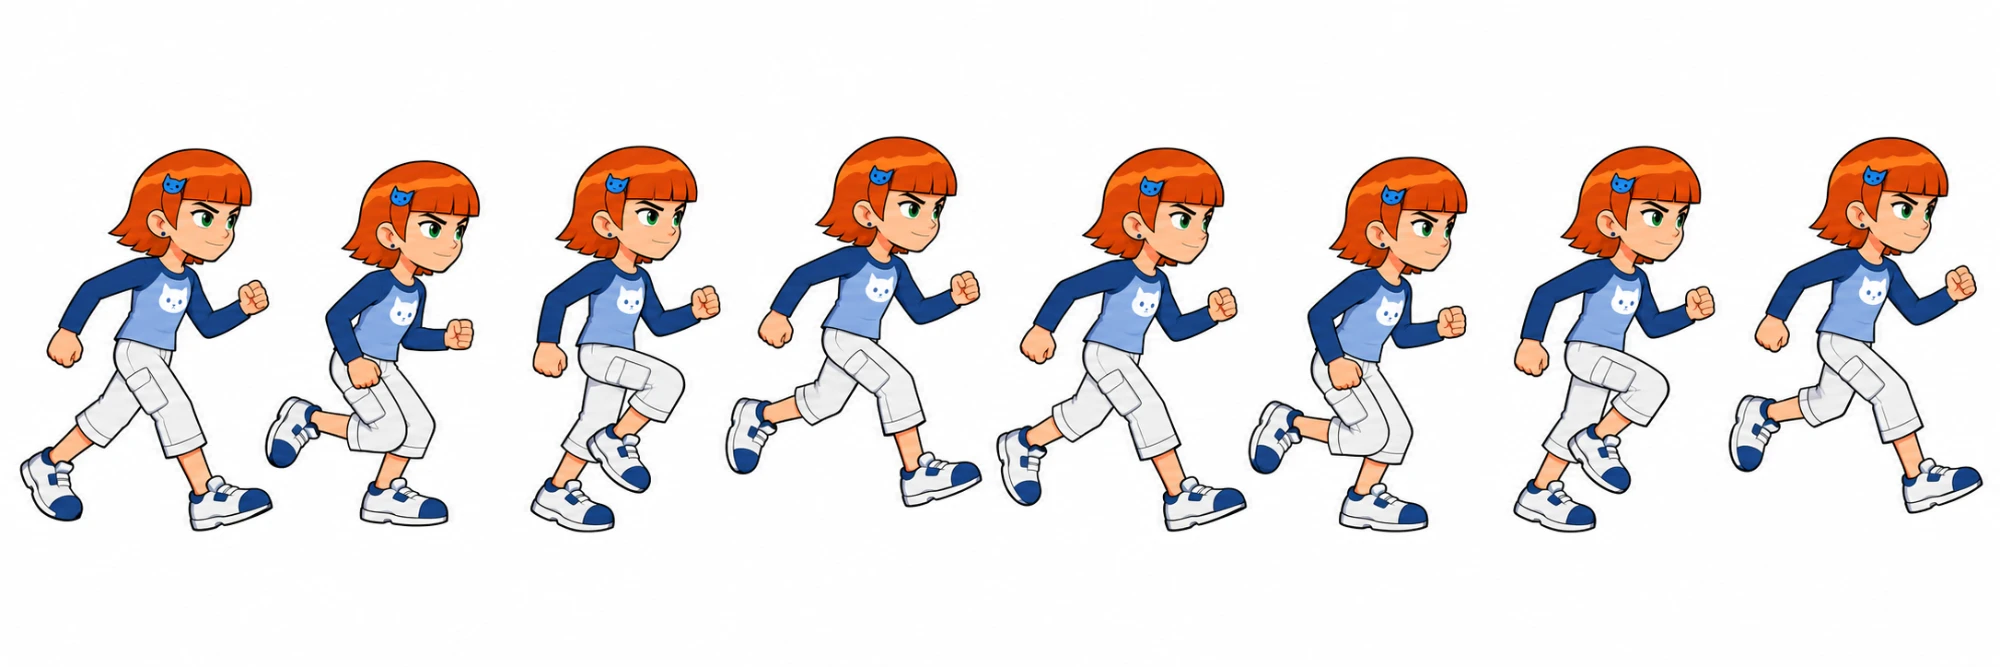
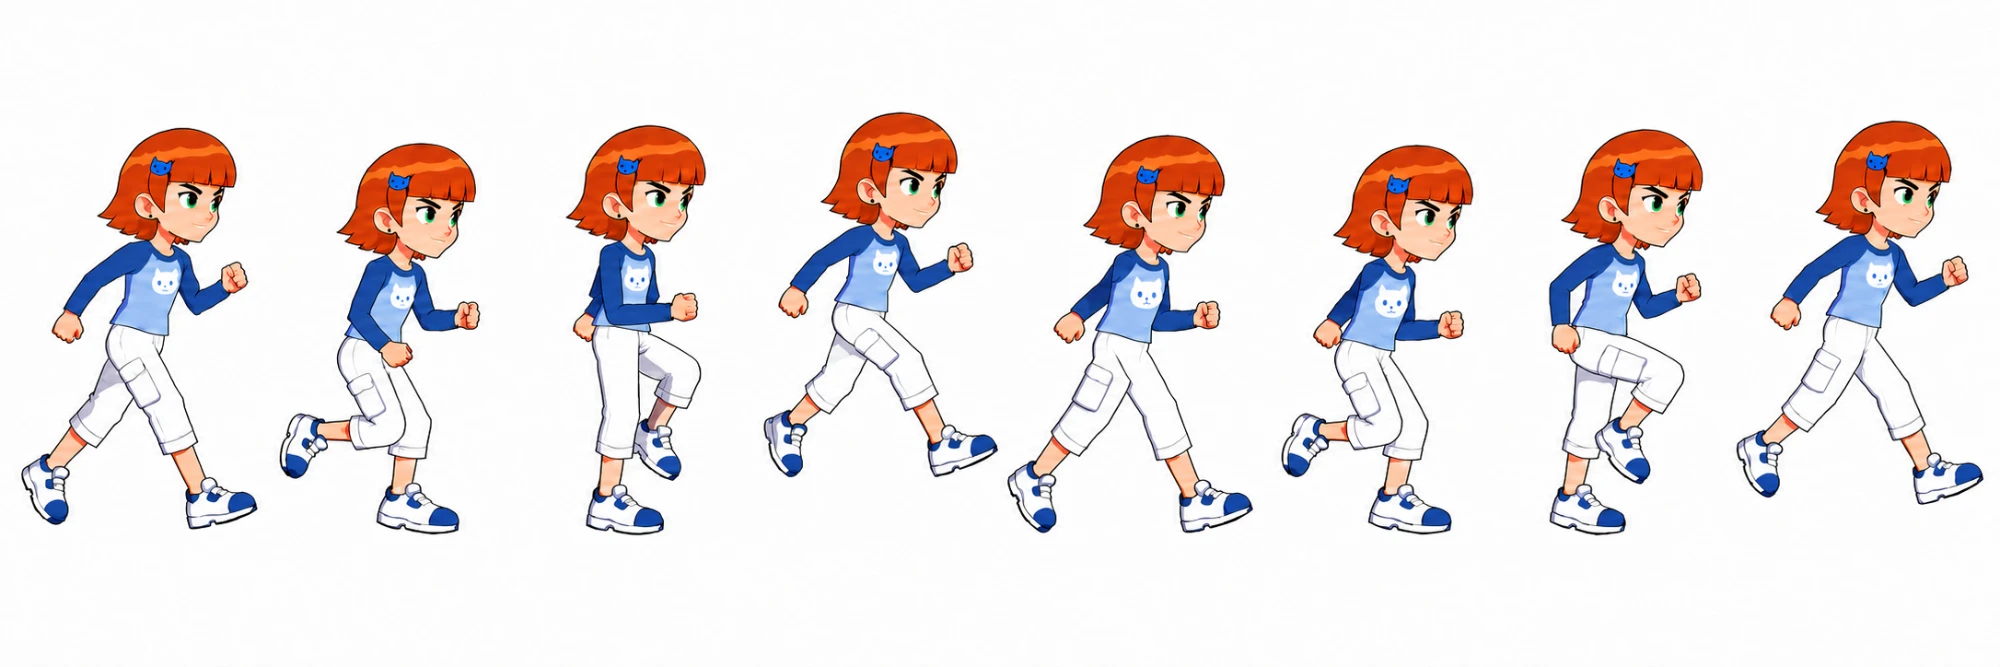
Gwen runs from the owner's second run sheet: the legs swap, her body doesn't twist
The airborne drawings are evened out (both 2.6 px up); her shorter stride
plays at 20 drawings a second (3.1 px of ground each), and her ring speeds
follow it.

Claude-Session: https://claude.ai/code/session_013Hp8tSqP8vgSn4FCMe6iiY

Changed region(s): [[0.0, 0.1499, 0.992, 0.8096]]

diff --git a/src/scenes/preload/cartoon/cutout/gwenFrames.ts b/src/scenes/preload/cartoon/cutout/gwenFrames.ts
@@ -7,18 +7,18 @@ export const GWEN_FRAMES: CutoutMeta = {
   texel: 5,
   scale: 19.15,
   headScale: 1,
-  width: 747,
+  width: 688,
   height: 168,
   joints: {},
   frames: {
-    "body:run0": {"x": 309, "y": 2, "w": 90, "h": 135, "px": 47.95, "py": 133.69},
-    "body:run1": {"x": 668, "y": 2, "w": 77, "h": 130, "px": 41.97, "py": 128.14},
-    "body:run2": {"x": 74, "y": 2, "w": 68, "h": 137, "px": 29.78, "py": 135.43},
-    "body:run3": {"x": 574, "y": 2, "w": 92, "h": 131, "px": 48.91, "py": 138.03},
-    "body:run4": {"x": 144, "y": 2, "w": 89, "h": 136, "px": 45.62, "py": 134.39},
-    "body:run5": {"x": 494, "y": 2, "w": 78, "h": 133, "px": 42.36, "py": 131.26},
-    "body:run6": {"x": 235, "y": 2, "w": 72, "h": 136, "px": 33.22, "py": 135.08},
-    "body:run7": {"x": 401, "y": 2, "w": 91, "h": 133, "px": 44.96, "py": 138.01},
+    "body:run0": {"x": 186, "y": 2, "w": 85, "h": 143, "px": 44.87, "py": 141.0},
+    "body:run1": {"x": 363, "y": 2, "w": 73, "h": 139, "px": 38.83, "py": 137.85},
+    "body:run2": {"x": 74, "y": 2, "w": 51, "h": 146, "px": 23.3, "py": 144.15},
+    "body:run3": {"x": 602, "y": 2, "w": 84, "h": 130, "px": 37.93, "py": 141.4},
+    "body:run4": {"x": 273, "y": 2, "w": 88, "h": 141, "px": 44.22, "py": 139.95},
+    "body:run5": {"x": 438, "y": 2, "w": 71, "h": 139, "px": 33.85, "py": 137.5},
+    "body:run6": {"x": 127, "y": 2, "w": 57, "h": 144, "px": 21.48, "py": 142.75},
+    "body:run7": {"x": 511, "y": 2, "w": 89, "h": 137, "px": 44.71, "py": 148.4},
     "body:stand": {"x": 2, "y": 2, "w": 70, "h": 164, "px": 32.84, "py": 162.92},
   },
   bends: {},

diff --git a/src/scenes/preload/cartoon/characters/gwen.ts b/src/scenes/preload/cartoon/characters/gwen.ts
@@ -211,8 +211,8 @@ export function gwenRig(): RigDef {
  */
 export const GWEN_FRAME_CLIPS: Readonly<Record<string, FrameClip>> = {
   idle: { frames: ['stand'], ms: 2600, loop: true, motion: breathe() },
-  // The sheet's second four drawings repeat the first four's stride: with both legs alike it reads as the other leg.
-  run: { frames: ['run0', 'run1', 'run2', 'run3', 'run4', 'run5', 'run6', 'run7'], fps: 16, loop: true },
+  // A short, quick stride (her second run sheet): 20 drawings a second keep her feet planted at Ben's pace.
+  run: { frames: ['run0', 'run1', 'run2', 'run3', 'run4', 'run5', 'run6', 'run7'], fps: 20, loop: true },
   walk: { frames: ['run0', 'run1', 'run2', 'run3', 'run4', 'run5', 'run6', 'run7'], fps: 10, loop: true },
   // The run's lowest drawing for the push-off, then its flight.
   jump: { frames: ['run1', 'run3', 'run3', 'run3', 'run3', 'run3'], ms: 420, loop: false },

diff --git a/src/config/chapter7.ts b/src/config/chapter7.ts
@@ -63,9 +63,9 @@ export const CH7_BEATS = {
     /** Max's walk and hurry (his walk at twice its gait: his sheet has no run), Gwen's run (px/s): near their drawings' own gaits (config/cartoon/gait.ts), so their feet stay planted. */
     maxWalk: 36,
     maxHurry: 72,
-    gwenRun: 63,
+    gwenRun: 62,
     /** Gwen at Ben's side (px/s): as fast as her run cycle can play (twice its gait); she pops back in when left far behind. */
-    gwenFollow: 126,
+    gwenFollow: 124,
     /** Where Max and Gwen stand at the capsule, and where they stop at the hatch, the locker and the hub (px). */
     maxStart: 34,
     gwenStart: -26,

diff --git a/tests/chapter7.test.ts b/tests/chapter7.test.ts
@@ -92,7 +92,7 @@ describe('chapter 7 layout', () => {
   });
 
   it('the family and Kevin move at speeds their drawn cycles keep up with', () => {
-    // Twice the gait is the most a cycle plays (config/cartoon/gait.ts): Max walks 36, Gwen runs 63, Kevin runs 73.
+    // Twice the gait is the most a cycle plays (config/cartoon/gait.ts): Max walks 36, Gwen runs 62, Kevin runs 73.
     expect(CH7_BEATS.ring.maxHurry).toBeLessThanOrEqual(72);
     expect(CH7_LATE.max.speed).toBeLessThanOrEqual(72);
     expect(CH7_REACTOR.glimpse.speed).toBeLessThanOrEqual(146);

diff --git a/src/config/cartoon/gait.ts b/src/config/cartoon/gait.ts
@@ -6,8 +6,8 @@
  * feet don't slide. Keyed by the family sheet's prefix, then the pose.
  */
 export const GAIT: Readonly<Record<string, Readonly<Record<string, number>>>> = {
-  // About 3.95 px a drawing: 16 and 10 drawings a second.
-  gwen: { run: 63, walk: 39.5 },
+  // About 3.1 px a drawing (her second run sheet's shorter stride): 20 and 10 drawings a second.
+  gwen: { run: 62, walk: 31 },
   // About 3.6 px a drawing: 10 and 15 a second.
   max: { walk: 36, run: 54 },
   // About 4.55 px a drawing: 16 and 10 a second.

diff --git a/scripts/cutout/gwen_frames.py b/scripts/cutout/gwen_frames.py
@@ -1,6 +1,6 @@
 # Gwen frame by frame: every pose is one of her generated drawings (see frames.py).
-# Sheets: her model sheet (the three-quarter view, for standing) and her run cycle (8 frames; the fifth to eighth repeat the first four, so
-# the legs never swap: with both legs alike it plays as a four-drawing stride).
+# Sheets: her model sheet (the three-quarter view, for standing) and her run cycle (8 frames, the owner's second run sheet: the legs swap
+# between frames 1 and 5 and 3 and 7, her body doesn't twist; 2 and 6, 4 and 8 share a leg, which reads fine with both legs alike).
 
 ID = 'gwen'
 TEXEL = 5
@@ -16,18 +16,18 @@ REF = ('model', 1)
 HAIR = (209, 71, 11)
 SHIRT = (139, 170, 225)
 SKIN = (249, 181, 132)
-# The run sheet draws her stockier than the model sheet (a head 23% bigger for her body) and turned
-# more to the side, so hair width misleads: scaled between her head's height (x1.30) and her height
-# (x1.37 once a runner's crouch is allowed for), so neither jumps more than a few percent when she stops.
-SHEET_SCALE = {'model': 1.0, 'run': 1.33}
+# The run sheet draws her turned more to the side, so hair width misleads: scaled between her head's height
+# (x1.38) and her height (x1.31 once a runner's crouch is allowed for), so neither jumps more than a few percent when she stops.
+SHEET_SCALE = {'model': 1.0, 'run': 1.34}
 
 FRAMES = {
     'stand': ('model', 1),
     'run0': ('run', 0), 'run1': ('run', 1), 'run2': ('run', 2), 'run3': ('run', 3),
     'run4': ('run', 4), 'run5': ('run', 5), 'run6': ('run', 6), 'run7': ('run', 7),
 }
-# Airborne run frames, by how far their lowest foot sits over the sheet's ground line (game px).
-LIFT = {'run3': 1.70, 'run7': 1.28}
+# Airborne run frames (game px over the floor). The sheet hops her 4.1 in the fourth drawing and 2.2 in the eighth:
+# evened out so both strides float the same.
+LIFT = {'run3': 2.6, 'run7': 2.6}
 
 # Her model sheet's colours: frames from other sheets are pulled toward them.
 PALETTE = [(237, 237, 238), (27, 66, 128), (249, 181, 132), (17, 12, 17), (209, 71, 11), (139, 170, 225), (183, 183, 191), (245, 119, 43), (106, 41, 15), (77, 126, 190)]

diff --git a/docs/DECISIONS.md b/docs/DECISIONS.md
@@ -201,7 +201,7 @@ Measurements and before/after numbers are in `PERFORMANCE.md`.
 - **Characters drawn frame by frame, replacing the cut-out puppets** (the owner: the cut-outs still "feel like pieces", Max's arm "looks like it has polio"). A cut-out bends one standing drawing into poses nobody drew, so limbs thin and twist and hands turn the wrong way; no amount of polish fixes that. Frame by frame, every pose is one of the generated drawings, played as it is, about 12-16 drawings a second like the show itself. `scripts/cutout/frames.py` finds each figure on a sheet, scales every sheet to the model sheet by the width of the hair, anchors each drawing at the middle of the shirt and the floor under the lowest foot (lifting the airborne run frames), pulls colours toward the model sheet's, and packs `public/assets/cast/<id>-frames.webp` (WebP keeps the alpha at a third of PNG's size; 5 texels per game px: the art is never painted sharper than 4). Swimming drawings hang from the middle of the shirt instead of the feet (`CENTRED`), and the swim clip places that point. `cutout/frameRig.ts` turns that into a one-bone rig whose part has a look per drawing, so the HD mirror, story poses, portraits and the hit flicker need no changes; motion over a drawing (a bob, a nudge, a roll's spin) is clip code. Ben is first: idle, run (his 8-frame run sheet; its fourth drawing repeats the eighth's stride, so the third is held in its place), the 6-frame breaststroke, jump, fall, land, punch, hurt, the slam and eight story poses (talk, point, shrug, surprise, cheer, think, wave, staring at his hands). Of two story-pose sheets the owner made, the one with the Omnitrix in every pose is used; of two identical swim sheets, the larger. Gwen, Max and Kevin stay cut-outs until their animation sheets arrive.
 - **Gwen, Max and Kevin frame by frame** (`scripts/cutout/<id>_frames.py`, clips `<ID>_FRAME_CLIPS` in `characters/<id>.ts`): the owner's first sheets for them are cycles only: Gwen's run, Max's walk, Kevin's run (`docs/art-refs/<id>-run-cycle.webp`, `max-walk-cycle.webp`). Of two Gwen run sheets, the one with the cat face in every frame is used (the other loses it in frames 5 and 6); of two Max walk sheets, the one whose arms swing once a cycle (the other's swing back and forth in frames 6-8). All three repeat their first four drawings' legs in frames 5-8 (the legs never swap), and Gwen's arms never swap either; since both legs look alike, the four-drawing stride repeated still reads as alternating legs, so the cycles play as drawn, all eight drawings. Until their action and story-pose sheets arrive, a pose with no drawing of its own is the model sheet's standing drawing, breathing (a 0.5% swell from the feet, so they never leave the floor; Ben's older clips bob instead); Max at the console is his model sheet's side view; Kevin's absorb, wind-up and throw are his model sheet's absorbing pose (the purple is in the drawing); the jump and fall borrow the run's flight drawings, the landing its lowest drawing. Clips a rig doesn't list fall back to the standing drawing.
 - **A size jump between sheets:** ChatGPT draws the cycle sheets stockier than the model sheets (heads 13-23% bigger for the body, and turned more to the side), so the hair-width scale `frames.py` uses for Ben shrank the runners by a fifth. Each cycle sheet is scaled by hand (`SHEET_SCALE`) between its head's height and its body's height (`frames.py` prints both), so going from standing to moving changes neither by more than a few percent beyond a runner's natural crouch (Ben's own run stands 15% lower than his idle). The real fix is drawings in the same proportions: the action sheets are to be made from the cycle sheet. Gwen is scaled so she stands as tall as Ben's idle drawing (her model sheet would make her 5% taller); Max and Kevin keep their cut-outs' heights.
-- **Feet that stay planted:** the drawn strides are short for the speeds the game moves people at (about 4 game px of ground a drawing for Gwen, 3.6 for Max, 4.6 for Kevin). In an HD chapter a `FamilyActor` plays its run or walk at the rate its real speed needs (`config/cartoon/gait.ts`: Gwen runs at 63 px/s at 16 drawings a second, Max walks at 36 at 10, Kevin runs at 73 at 16), between half and double; beyond double the feet slide rather than blur. Chapter 7's set pieces should move them near those speeds; the companion's 150 px/s is past double, so Gwen should follow at most 130 px/s when she walks with Ben. Ben's own run (15 drawings a second at 132 px/s) still slides; his rate is left as approved.
+- **Feet that stay planted:** the drawn strides are short for the speeds the game moves people at (about 3.1 game px of ground a drawing for Gwen (her second run sheet; she runs at 20 drawings a second), 3.6 for Max, 4.6 for Kevin). In an HD chapter a `FamilyActor` plays its run or walk at the rate its real speed needs (`config/cartoon/gait.ts`: Gwen runs at 63 px/s at 16 drawings a second, Max walks at 36 at 10, Kevin runs at 73 at 16), between half and double; beyond double the feet slide rather than blur. Chapter 7's set pieces should move them near those speeds; the companion's 150 px/s is past double, so Gwen should follow at most 130 px/s when she walks with Ben. Ben's own run (15 drawings a second at 132 px/s) still slides; his rate is left as approved.
 - **The docking ring plays during play, not as a cutscene** (`scenes/level/plumber/story/DockingRing.ts`): Ben keeps control while Max talks. The bay's hatch, shut until the base wakes, opens with Max's badge once he has walked to it and finished his reveal, so the reveal can't be missed or rushed. Gwen walks with Ben as the companion, spells and all, from the capsule to the hub, at most 126 px/s (her run cycle at double rate); left far behind, she pops back in beside him. The sentries have no portrait, so their words float over them in red. Max hurries to his locker (his walk at double rate) so its beat plays while Ben is still near; if Ben has already gone through the sentries, it's skipped. The hub's console stands on a dais: Max works it from the dais's side (he has no drawing for climbing or hopping) with Gwen beside him, and Ben goes over the dais to the hub's hatch.
 - **A section's console lights its section** when it's hit (`BaseSystems`): before, waking the ring's console left the ring dark, and nothing opened the bay's hatch on a fresh run.
 - **Recorded music, not composed in code** (the owner's call): the game's music will be generated recordings (an AI music service; the owner chooses which). A track listed in `config/music.ts` plays its recording (`systems/audio/RecordedMusic.ts`: decoded once, looped between its loop points, through the music bus) instead of the sequencer track of the same name; unlisted tracks keep the sequencer, so nothing changes until the files arrive. One mixed file stands in for the sequencer's two layers: as human Ben the mix is filtered a little darker and quieter, and transforming opens it up (the same `setIntensity`), and the misfire's record scratch cuts it the same way.

diff --git a/docs/ch7-wip.md b/docs/ch7-wip.md
@@ -16,7 +16,7 @@ Uncommitted at handoff time: nothing (the Deepmaw rig and manifest were committe
 
 ## Still to do, in order
 
-0. **Frame by frame, from the owner's animation sheets** (DECISIONS.md, "Characters drawn frame by frame"). Every pose is one of the owner's ChatGPT drawings played as it is; nothing is cut or bent (the owner rejected the cut-out puppets below: "feels like pieces"). **Done: Ben** (`scripts/cutout/ben_frames.py`, clips `BEN_FRAME_CLIPS` in `characters/ben.ts`: idle, run, jump, fall, land, punch, hurt, roll, defeat, watch, slam, swim, tread, drown and eight story poses). **Started: Gwen, Max, Kevin** (`scripts/cutout/<id>_frames.py`, `<ID>_FRAME_CLIPS`): their cycles (Gwen's and Kevin's 8-frame runs, Max's 8-frame walk) and the model sheets' standing drawings (Max's side view at the console, Kevin's absorbing pose); every other pose borrows the standing drawing until these arrive (the prompts are in the "Animation Sheet Prompts" artifact, see PROGRESS): an 8-pose action sheet each (Gwen: stand, jump, fall, land, hurt, cast spell with a pink-purple ball, arms folded, talking; Max: stand, at a console, firing a blaster one-handed, holding up his badge, salute, talking, cheering, surprised; Kevin: smirk, absorbing (hands glowing purple), wind-up, throw, lunge, laughing, hurt, jumping) and a story-pose sheet for Gwen and Max (talk, point, shrug, surprised, cheer, think, wave, worried), each made from the character's cycle sheet so the proportions match (DECISIONS.md, "A size jump between sheets"). When they land: add them to `SHEETS`/`FRAMES` (scale them like the cycle sheet: `frames.py` prints the head and hair ratios), give each clip its drawing, and drop the borrowed ones. Their cycles play at the rate their speed needs (`config/cartoon/gait.ts`): move them near those speeds in the set pieces.
+0. **Frame by frame, from the owner's animation sheets** (DECISIONS.md, "Characters drawn frame by frame"). Every pose is one of the owner's ChatGPT drawings played as it is; nothing is cut or bent (the owner rejected the cut-out puppets below: "feels like pieces"). **Done: Ben** (`scripts/cutout/ben_frames.py`, clips `BEN_FRAME_CLIPS` in `characters/ben.ts`: idle, run, jump, fall, land, punch, hurt, roll, defeat, watch, slam, swim, tread, drown and eight story poses). **Started: Gwen, Max, Kevin** (`scripts/cutout/<id>_frames.py`, `<ID>_FRAME_CLIPS`): their cycles (Gwen's and Kevin's 8-frame runs, Max's 8-frame walk; Gwen's run is the owner's second run sheet, whose legs swap and body doesn't twist) and the model sheets' standing drawings (Max's side view at the console, Kevin's absorbing pose); every other pose borrows the standing drawing until these arrive (the prompts are in the "Animation Sheet Prompts" artifact, see PROGRESS): an 8-pose action sheet each (Gwen: stand, jump, fall, land, hurt, cast spell with a pink-purple ball, arms folded, talking; Max: stand, at a console, firing a blaster one-handed, holding up his badge, salute, talking, cheering, surprised; Kevin: smirk, absorbing (hands glowing purple), wind-up, throw, lunge, laughing, hurt, jumping) and a story-pose sheet for Gwen and Max (talk, point, shrug, surprised, cheer, think, wave, worried), each made from the character's cycle sheet so the proportions match (DECISIONS.md, "A size jump between sheets"). When they land: add them to `SHEETS`/`FRAMES` (scale them like the cycle sheet: `frames.py` prints the head and hair ratios), give each clip its drawing, and drop the borrowed ones. Their cycles play at the rate their speed needs (`config/cartoon/gait.ts`): move them near those speeds in the set pieces.
 
    How, per character:
    - Save each sheet as `docs/art-refs/<id>-<run-cycle|walk-cycle|action-poses|story-poses>.webp` (attached images arrive under the session's `images/` folder). Check it first: whole bodies, same size, signature details kept (Gwen's cat clip and cat shirt, Max's holster and flower shirt, Kevin's grey under-sleeves). A run cycle's legs should swap sides between frames 1-4 and 5-8 (look at which leg is drawn in front, and which arm); ChatGPT often repeats the first half instead, which still plays when both legs look alike. One bad frame can be replaced by holding its neighbour (Ben's fourth run frame). Compare the head's size with the model sheet's: the cycle sheets come out stockier (`SHEET_SCALE`).
